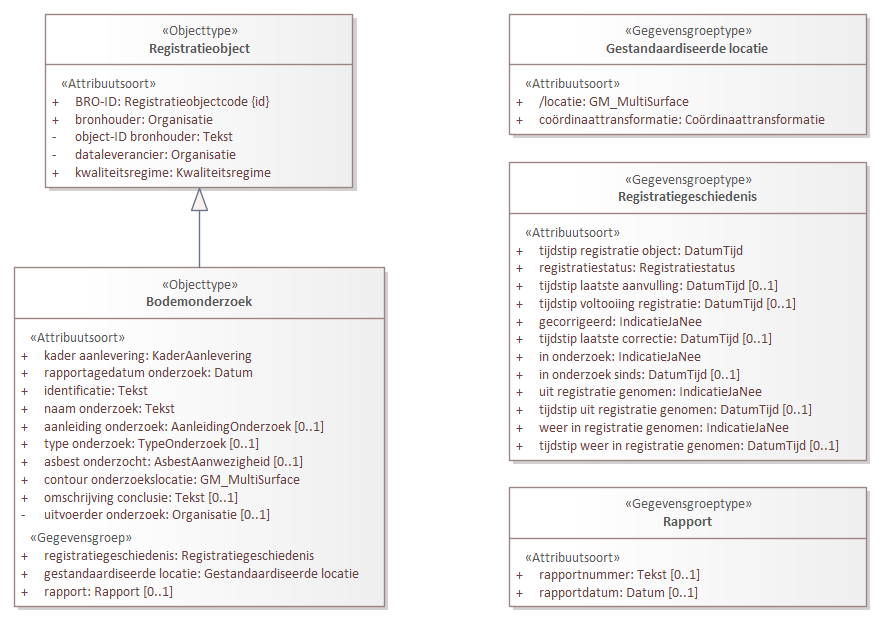
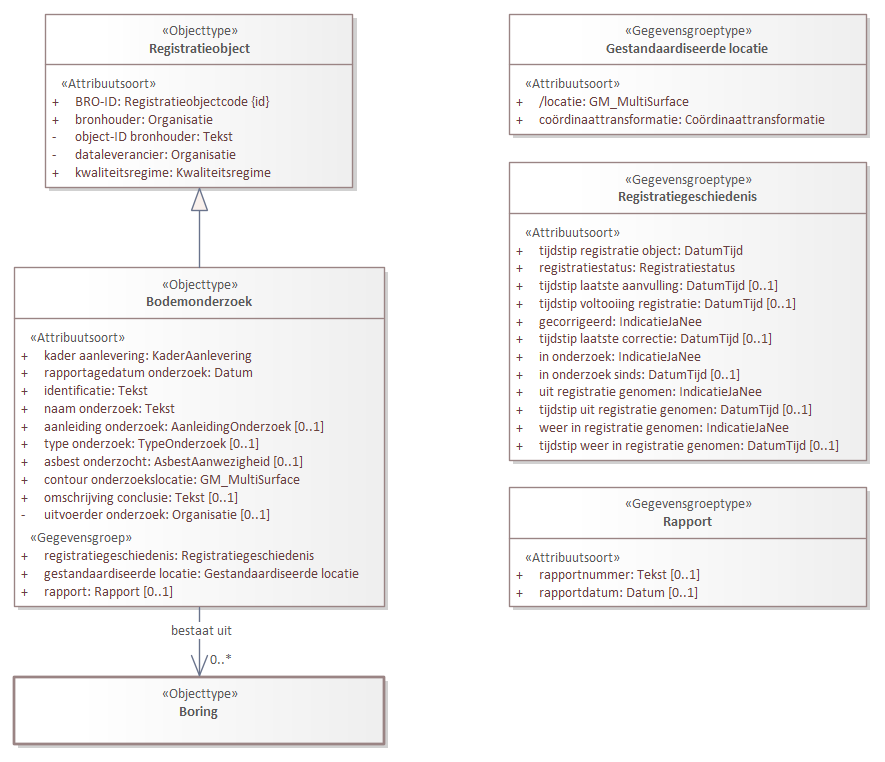
Conceptualmodel-MilieuhygienischbodemonderzoekSAD-0.2-1-20230126-20230221-151640

Changed region(s): [[0.5797, 0.0, 1.0, 1.0], [0.0, 0.0, 0.4576, 1.0], [0.9763, 0.609, 1.0, 0.6394]]

diff --git a/data/SAD-cat.msword.html b/data/SAD-cat.msword.html
@@ -15,7 +15,7 @@
    <body>
       <p>Conceptual model/Milieuhygienisch bodemonderzoek SAD/20230126</p>
       <p>Imvertor: 2.0.0</p>
-      <p>Model release: Conceptualmodel-MilieuhygienischbodemonderzoekSAD-0.2-1-20230126-20230221-151143</p>
+      <p>Model release: Conceptualmodel-MilieuhygienischbodemonderzoekSAD-0.2-1-20230126-20230221-151640</p>
       <hr>
       <section>
          <h1>Artikel 1 Definitie van registratieobject, entiteiten en attributen</h1>
@@ -73,7 +73,7 @@
             <h2>Entiteiten en attributen</h2>
             <section id=""><a class="anchor" id="graph_EAID_ABAADB49_C747_4775_A739_CC832CAD59F1"></a><a class="anchor" id="global_class_Model_Bodemonderzoek"></a><section id="global_class_Model_Bodemonderzoek">
                   <h3>   Bodemonderzoek</h3>
-                  <div class="imageinfo "><img src="Images/EAID_65BDD0DF_5A17_4756_8FD6_F029CE4A290E.png" usemap="#imagemap-EAID_65BDD0DF_5A17_4756_8FD6_F029CE4A290E" alt="Diagram "><map name="imagemap-EAID_65BDD0DF_5A17_4756_8FD6_F029CE4A290E"><area shape="rect" alt="Registratieobject" coords="45,14,353,188" href="#graph_EAID_67DBE718_38E0_4ead_8649_72EA0B4A2355"><area shape="rect" alt="Rapport" coords="509,487,867,607" href="#graph_EAID_1A8201CD_7E4B_4216_916D_D3AEB7E30188"><area shape="rect" alt="Registratiegeschiedenis" coords="509,162,867,461" href="#graph_EAID_12E1A894_EB8E_4245_B745_ED1899B2A278"><area shape="rect" alt="Gestandaardiseerde locatie" coords="509,14,867,135" href="#graph_EAID_69CFF81C_3747_43f5_8293_34D1745DEB53"><area shape="rect" alt="Bodemonderzoek" coords="14,267,385,607" href="#graph_EAID_ABAADB49_C747_4775_A739_CC832CAD59F1"></map><p><b></b></p>
+                  <div class="imageinfo "><img src="Images/EAID_65BDD0DF_5A17_4756_8FD6_F029CE4A290E.png" usemap="#imagemap-EAID_65BDD0DF_5A17_4756_8FD6_F029CE4A290E" alt="Diagram "><map name="imagemap-EAID_65BDD0DF_5A17_4756_8FD6_F029CE4A290E"><area shape="rect" alt="Boring" coords="14,677,385,745" href="#graph_EAID_40FFF5B9_99C5_4c21_9D72_A3D1DD3C857F"><area shape="rect" alt="Registratieobject" coords="45,14,353,188" href="#graph_EAID_67DBE718_38E0_4ead_8649_72EA0B4A2355"><area shape="rect" alt="Rapport" coords="509,487,867,607" href="#graph_EAID_1A8201CD_7E4B_4216_916D_D3AEB7E30188"><area shape="rect" alt="Registratiegeschiedenis" coords="509,162,867,461" href="#graph_EAID_12E1A894_EB8E_4245_B745_ED1899B2A278"><area shape="rect" alt="Gestandaardiseerde locatie" coords="509,14,867,135" href="#graph_EAID_69CFF81C_3747_43f5_8293_34D1745DEB53"><area shape="rect" alt="Bodemonderzoek" coords="14,267,385,607" href="#graph_EAID_ABAADB49_C747_4775_A739_CC832CAD59F1"></map><p><b></b></p>
                   </div>
                   <table style="width: 100%;">
                      <colgroup style="width: 30%;"></colgroup>

diff --git a/data/SAD-cat.respec.html b/data/SAD-cat.respec.html
@@ -49,7 +49,7 @@
    <section id="">
       <h2>Entiteittypen en attributen   </h2><a class="anchor" id="graph_EAID_ABAADB49_C747_4775_A739_CC832CAD59F1"></a><a class="anchor" id="global_class_Model_Bodemonderzoek"></a><section id="global_class_Model_Bodemonderzoek">
          <h3>   Bodemonderzoek</h3>
-         <div class="imageinfo "><img src="data/Images/EAID_65BDD0DF_5A17_4756_8FD6_F029CE4A290E.png" usemap="#imagemap-EAID_65BDD0DF_5A17_4756_8FD6_F029CE4A290E" alt="Diagram "><map name="imagemap-EAID_65BDD0DF_5A17_4756_8FD6_F029CE4A290E"><area shape="rect" alt="Registratieobject" coords="45,14,353,188" href="#graph_EAID_67DBE718_38E0_4ead_8649_72EA0B4A2355"><area shape="rect" alt="Rapport" coords="509,487,867,607" href="#graph_EAID_1A8201CD_7E4B_4216_916D_D3AEB7E30188"><area shape="rect" alt="Registratiegeschiedenis" coords="509,162,867,461" href="#graph_EAID_12E1A894_EB8E_4245_B745_ED1899B2A278"><area shape="rect" alt="Gestandaardiseerde locatie" coords="509,14,867,135" href="#graph_EAID_69CFF81C_3747_43f5_8293_34D1745DEB53"><area shape="rect" alt="Bodemonderzoek" coords="14,267,385,607" href="#graph_EAID_ABAADB49_C747_4775_A739_CC832CAD59F1"></map><p><b></b></p>
+         <div class="imageinfo "><img src="data/Images/EAID_65BDD0DF_5A17_4756_8FD6_F029CE4A290E.png" usemap="#imagemap-EAID_65BDD0DF_5A17_4756_8FD6_F029CE4A290E" alt="Diagram "><map name="imagemap-EAID_65BDD0DF_5A17_4756_8FD6_F029CE4A290E"><area shape="rect" alt="Boring" coords="14,677,385,745" href="#graph_EAID_40FFF5B9_99C5_4c21_9D72_A3D1DD3C857F"><area shape="rect" alt="Registratieobject" coords="45,14,353,188" href="#graph_EAID_67DBE718_38E0_4ead_8649_72EA0B4A2355"><area shape="rect" alt="Rapport" coords="509,487,867,607" href="#graph_EAID_1A8201CD_7E4B_4216_916D_D3AEB7E30188"><area shape="rect" alt="Registratiegeschiedenis" coords="509,162,867,461" href="#graph_EAID_12E1A894_EB8E_4245_B745_ED1899B2A278"><area shape="rect" alt="Gestandaardiseerde locatie" coords="509,14,867,135" href="#graph_EAID_69CFF81C_3747_43f5_8293_34D1745DEB53"><area shape="rect" alt="Bodemonderzoek" coords="14,267,385,607" href="#graph_EAID_ABAADB49_C747_4775_A739_CC832CAD59F1"></map><p><b></b></p>
          </div>
          <table style="width: 100%;">
             <colgroup style="width: 30%;"></colgroup>
